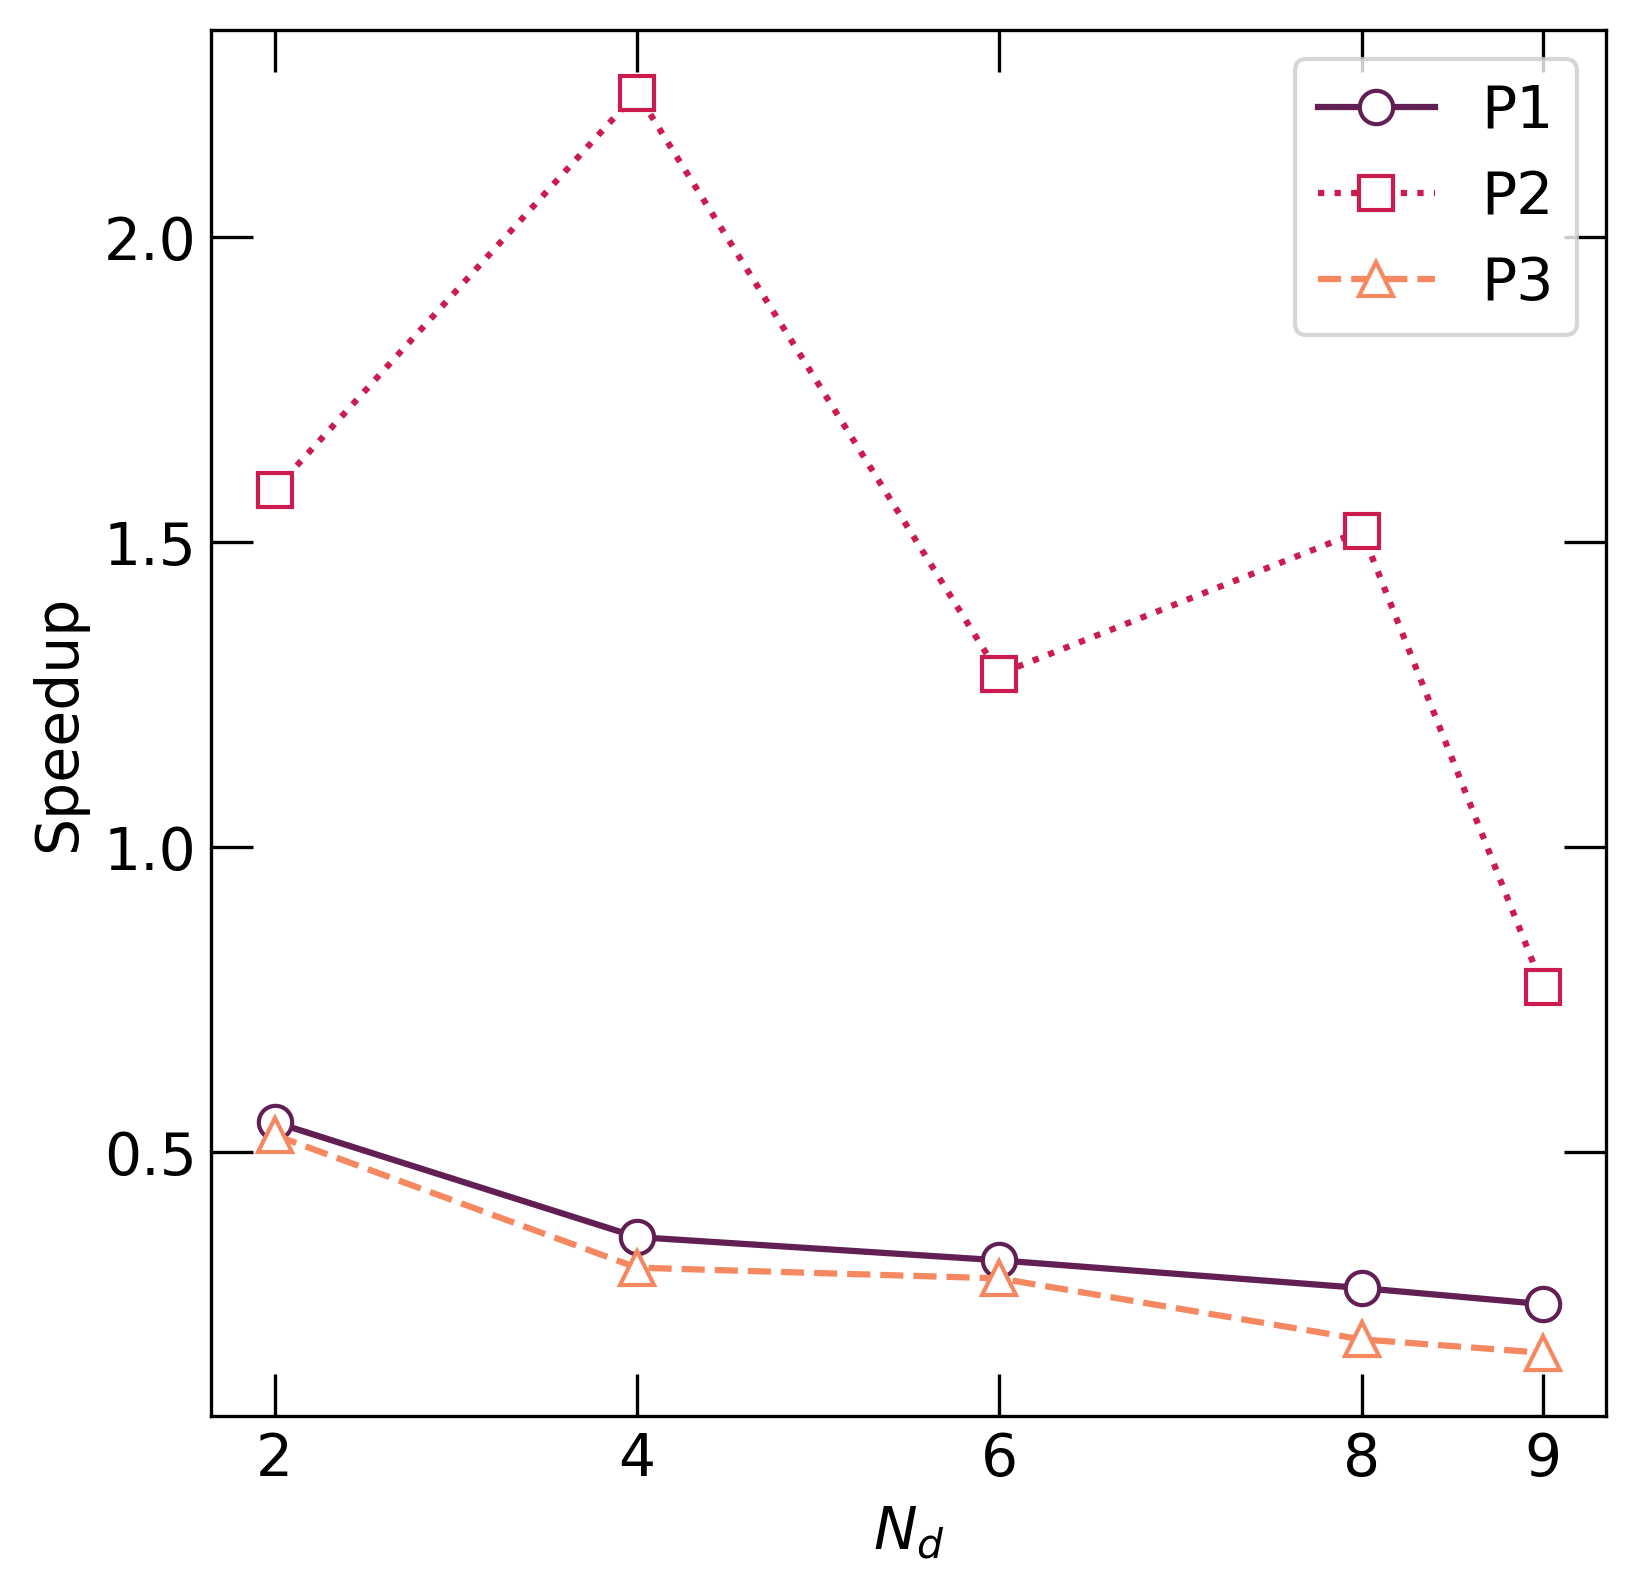
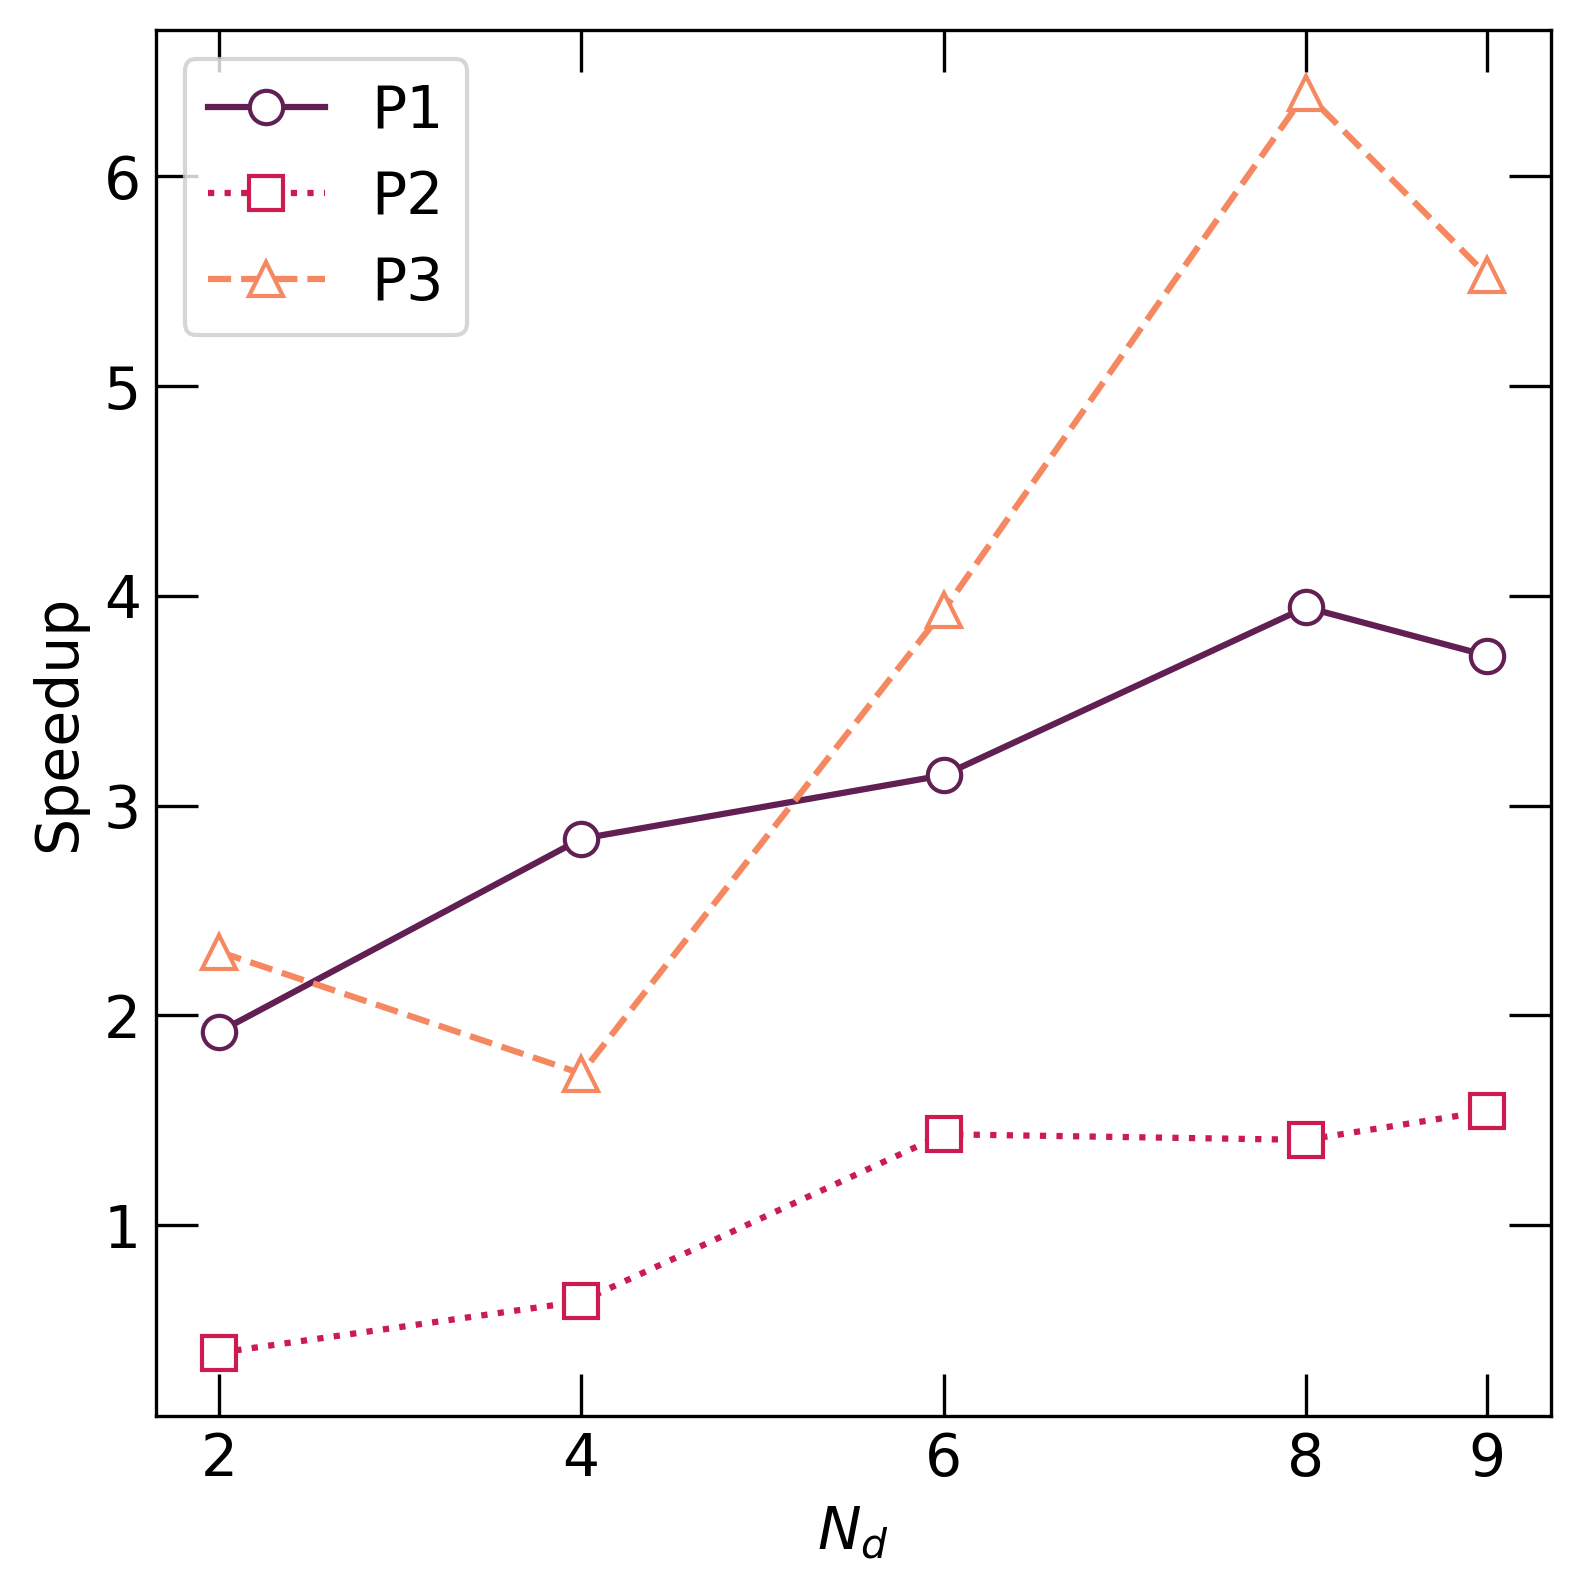
made speedup plot

diff --git a/C/Rectangle/ClusterTest/StrongScaling/make_plot.py b/C/Rectangle/ClusterTest/StrongScaling/make_plot.py
@@ -25,8 +25,8 @@ for i in range(n):
    f.close()
 
 
-base_times = np.array([22.089607, 7.997088, 36.583053]) # N = 200
-# base_times = np.array([97.899028, 29.104737, 176.157447]) # N = 300
+# base_times = np.array([22.089607, 7.997088, 36.583053]) # N = 200
+base_times = np.array([97.899028, 29.104737, 176.157447]) # N = 300
 
 
 
@@ -42,9 +42,9 @@ plt.rcParams.update({'font.size' : 14})
 colors=sns.color_palette("rocket",3)
 fig = plt.figure(1, figsize=(6,6))
 
-speedup1 = times[0]/base_times[0]
-speedup2 = times[1]/base_times[1]
-speedup3 = times[2]/base_times[2]
+speedup1 = base_times[0]/times[0]
+speedup2 = base_times[1]/times[1]
+speedup3 = base_times[2]/times[2]
 
 plt.plot(nps,speedup1,'-', label='P1',marker='o',mfc='w',color=colors[0],ms=8)
 plt.plot(nps,speedup2,':', label='P2',marker='s',mfc='w',color=colors[1],ms=8)
